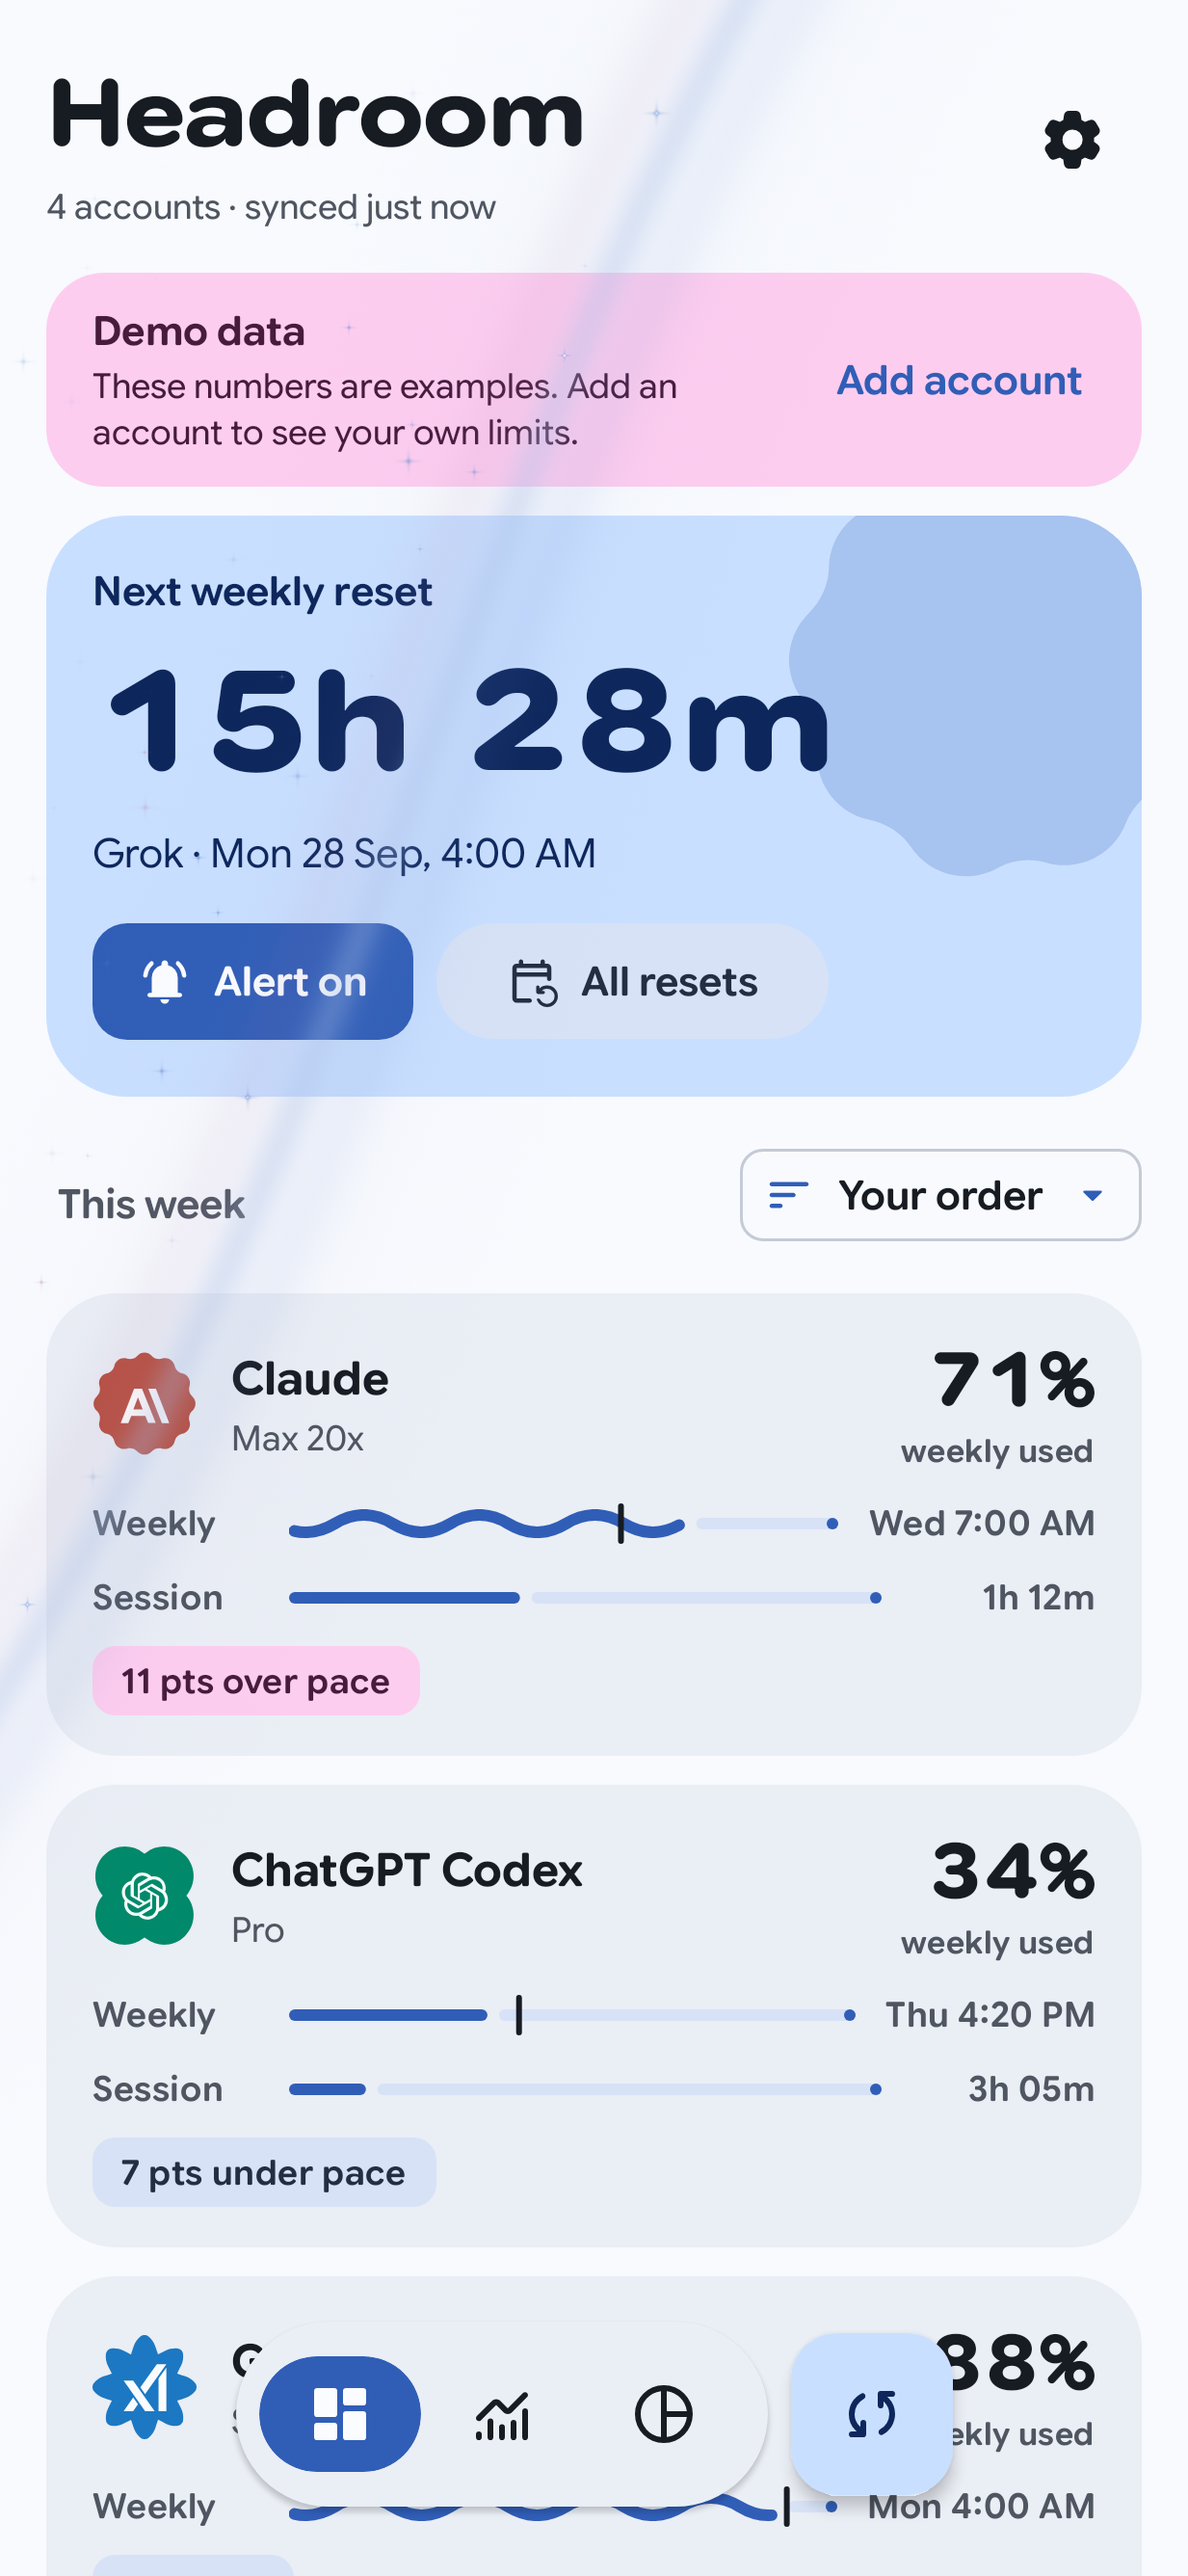
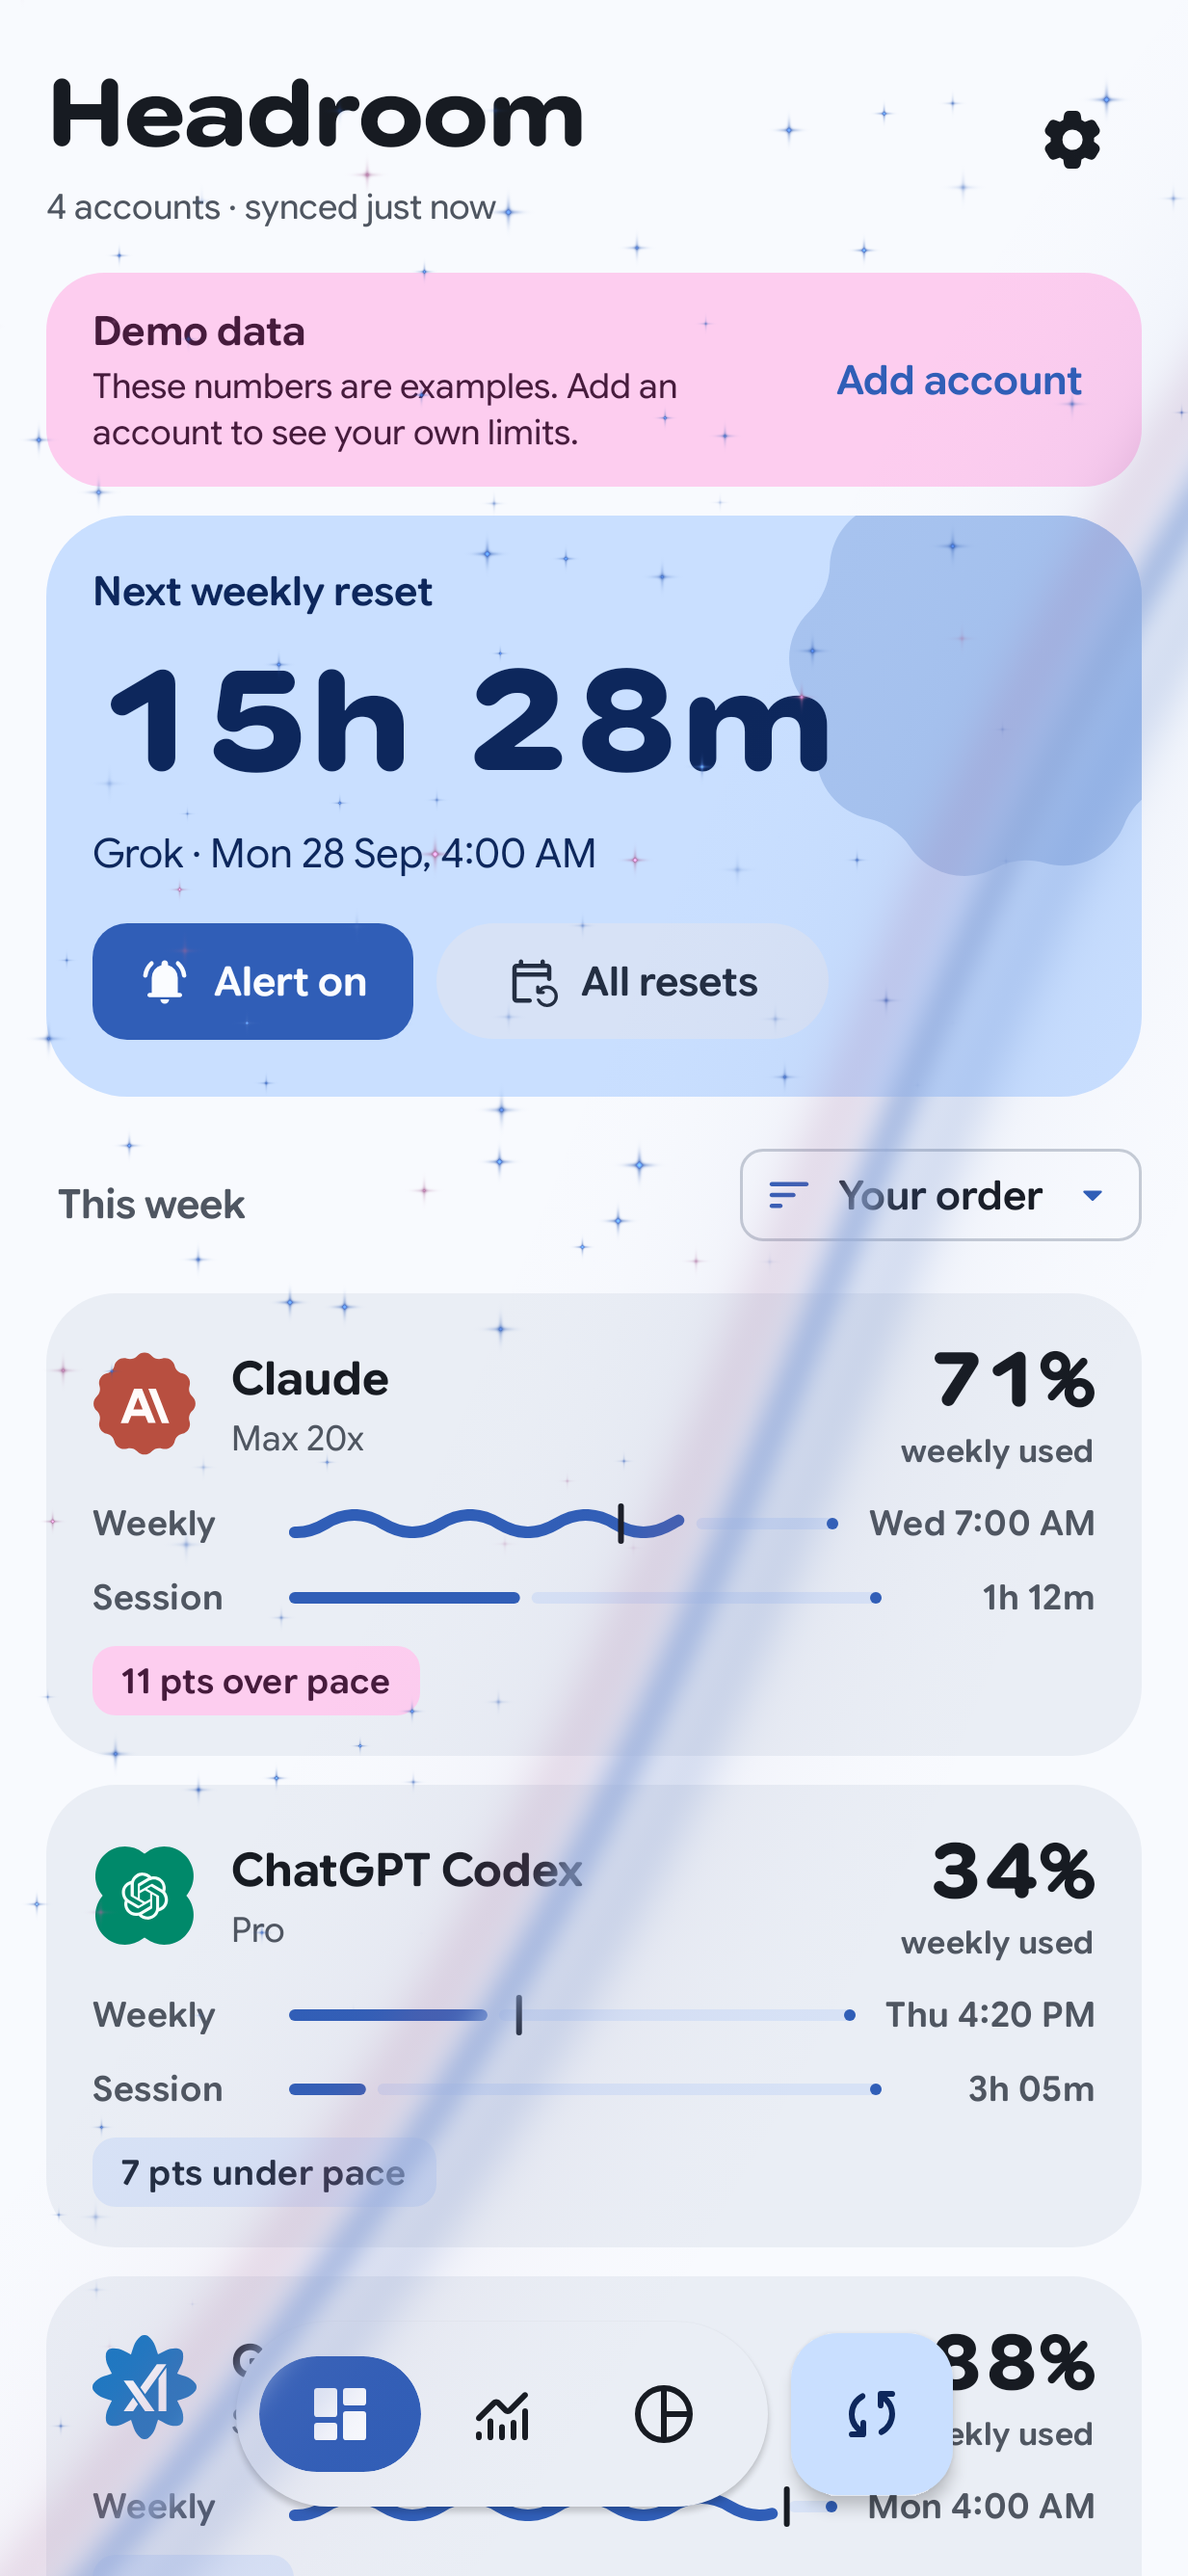
Let the shimmer's stars drift and linger
Each star's life now starts when the front reaches it, not when the
front moves on, and lasts about half a second to a second. The front
pushes each star along, and it slows down as it shrinks and fades. The
whole effect runs 2.4 seconds, and it is a little stronger. On a light
theme the stars are the primary colour, so they show.

diff --git a/app/src/main/kotlin/dev/sebastiano/headroom/ui/delights/RefreshShimmer.kt b/app/src/main/kotlin/dev/sebastiano/headroom/ui/delights/RefreshShimmer.kt
@@ -16,12 +16,12 @@ import androidx.compose.ui.graphics.toArgb
 /**
  * The refresh shimmer: a sheen of light sweeps across the screen and leaves a trail of sparkles.
  * - The front eases in and out, bends and wavers a little, and turns slightly as it travels. It
- *   travels during the first 70% of the time.
+ *   travels during the first half of the time.
  * - The front is a thin, faint core in the `shine` colour, with a whisper of `tint` ahead of it, of
  *   `accent` behind it, and a soft glow. Every colour is washed toward white, so it only hints.
  * - Some cells of a jittered grid hold a four-pointed star. A star lights up when the front reaches
- *   it, then twinkles and fades as the front moves on. For the last 30% of the time only the trail
- *   is left, fading out.
+ *   it, drifts on the push the front gave it, slowing down, and twinkles as it shrinks and fades.
+ *   After the front has gone, the last stars linger.
  *
  * Uniforms: `size` in pixels, `progress` from 0 to 1, `strength` the highest opacity, `density` in
  * pixels per dp, `whiten` how far the colours are washed toward white, and the colours `shine` (the
@@ -55,6 +55,12 @@ float ease(float t) {
     return 1.0 - u * u * u * 0.5;
 }
 
+// The inverse of ease(): the time at which the eased value reaches y, for y from 0 to 1.
+float easeInverse(float y) {
+    if (y < 0.5) return pow(y * 0.25, 1.0 / 3.0);
+    return 1.0 - pow(2.0 - 2.0 * y, 1.0 / 3.0) * 0.5;
+}
+
 // A four-pointed star of radius r: a small round core with two thin crossed rays.
 float star(float2 p, float r) {
     float2 q = abs(p) / r;
@@ -69,8 +75,10 @@ float bent(float2 p, float2 sweep, float2 normal, float reach) {
 }
 
 half4 main(float2 coord) {
-    float travel = ease(clamp(progress / 0.7, 0.0, 1.0));
-    float fade = smoothstep(0.0, 0.06, progress) * (1.0 - smoothstep(0.7, 1.0, progress));
+    // The front travels for the first half of the time; the stars it leaves linger after it.
+    const float TRAVEL = 0.5;
+    float travel = ease(clamp(progress / TRAVEL, 0.0, 1.0));
+    float fade = smoothstep(0.0, 0.04, progress) * (1.0 - smoothstep(0.8, 1.0, progress));
 
     // The sweep turns a little as it travels.
     float angle = mix(0.42, 0.62, travel);
@@ -86,31 +94,43 @@ half4 main(float2 coord) {
     // would not show.
     float3 softTint = mix(float3(tint.rgb), float3(1.0), whiten);
     float3 softAccent = mix(float3(accent.rgb), float3(1.0), whiten);
-    float core = bell(d / 0.009) * 0.55;
-    float ahead = bell((d - 0.022) / 0.014) * 0.12;
-    float behind = bell((d + 0.022) / 0.014) * 0.12;
-    float glow = bell(d / 0.07) * 0.05;
+    float core = bell(d / 0.01) * 0.75;
+    float ahead = bell((d - 0.024) / 0.015) * 0.18;
+    float behind = bell((d + 0.024) / 0.015) * 0.18;
+    float glow = bell(d / 0.07) * 0.07;
     float3 glowColour = mix(softTint, softAccent, across);
     float3 rgb = float3(shine.rgb) * core + softTint * ahead + softAccent * behind
         + glowColour * glow;
     float weight = core + ahead + behind + glow;
 
-    float cellSize = 22.0 * density;
+    // Each star is born when the front reaches it. The birth time is worked out along the sweep at
+    // its middle angle, which is close enough for a sparkle.
+    float2 midSweep = float2(cos(0.52), sin(0.52));
+    float midReach = abs(size.x * midSweep.x) + abs(size.y * midSweep.y);
+    float cellSize = 26.0 * density;
     float2 base = floor(coord / cellSize);
     for (int i = -1; i <= 1; i++) {
         for (int j = -1; j <= 1; j++) {
             float2 cell = base + float2(float(i), float(j));
             float h = hash(cell);
             float2 jitter = float2(hash(cell + 1.7), hash(cell + 4.1)) - 0.5;
-            float2 centre = (cell + 0.5 + jitter * 0.8) * cellSize;
-            float passed = front - bent(centre, sweep, normal, reach);
-            if (h > 0.76 && passed > -0.005) {
-                float life = exp(-max(passed, 0.0) / (0.05 + 0.13 * hash(cell + 9.3)));
+            float2 home = (cell + 0.5 + jitter * 0.6) * cellSize;
+            float reached = clamp((dot(home, midSweep) / midReach + 0.25) / 1.5, 0.0, 1.0);
+            float age = progress - TRAVEL * easeInverse(reached);
+            if (h > 0.72 && age > 0.0) {
+                // The front pushes the star along, and it slows down as it fades.
+                float spread = (hash(cell + 3.3) - 0.5) * 1.4;
+                float2 heading = float2(cos(0.52 + spread), sin(0.52 + spread));
+                float drift = (0.25 + 0.3 * hash(cell + 6.1)) * cellSize;
+                float2 position = home + heading * drift * (1.0 - exp(-age * 9.0));
+                // About half a second to a second of life, time being 2.4 s in all.
+                float life = exp(-age / (0.1 + 0.1 * hash(cell + 9.3)))
+                    * smoothstep(0.0, 0.012, age);
                 float twinkle =
-                    0.55 + 0.45 * sin(progress * (30.0 + 25.0 * hash(cell + 2.9)) + h * 40.0);
-                float radius = (1.4 + 2.4 * hash(cell + 7.7)) * density;
-                float lit = star(coord - centre, radius) * life * twinkle * 0.8;
-                // Most stars shine in the shine colour; some take the tint or the accent.
+                    0.6 + 0.4 * sin(progress * (40.0 + 30.0 * hash(cell + 2.9)) + h * 40.0);
+                float radius = (1.8 + 2.6 * hash(cell + 7.7)) * density * (0.6 + 0.4 * life);
+                float lit = star(coord - position, radius) * life * twinkle;
+                // Most stars shine in the sparkle colour; some take the tint or the accent.
                 float pick = hash(cell + 5.3);
                 float3 colour = pick < 0.7 ? float3(sparkle.rgb) : (pick < 0.85 ? softTint : softAccent);
                 rgb += colour * lit;
@@ -156,11 +176,11 @@ internal fun RefreshShimmer(progress: () -> Float, modifier: Modifier = Modifier
 
 private const val DARK_SURFACE_LUMINANCE = 0.5f
 /** The highest opacity, reached only in the thin core and the stars: bright, but brief. */
-private const val LIGHT_STRENGTH = 0.55f
-private const val DARK_STRENGTH = 0.5f
+private const val LIGHT_STRENGTH = 0.8f
+private const val DARK_STRENGTH = 0.7f
 /** On a light theme the shine is the primary colour, lightened this much toward white. */
-private const val LIGHT_SHINE_WHITENESS = 0.6f
-private const val LIGHT_SPARKLE_WHITENESS = 0.25f
+private const val LIGHT_SHINE_WHITENESS = 0.5f
+private const val LIGHT_SPARKLE_WHITENESS = 0f
 /** How far the tint and the accent are washed toward white. */
 private const val DARK_WHITEN = 0.65f
-private const val LIGHT_WHITEN = 0.2f
+private const val LIGHT_WHITEN = 0.1f

diff --git a/app/src/test/kotlin/dev/sebastiano/headroom/ui/ScreenshotTest.kt b/app/src/test/kotlin/dev/sebastiano/headroom/ui/ScreenshotTest.kt
@@ -537,7 +537,7 @@ private const val FRAME_MILLIS = 16L
 /** Part-way through the reveal into Settings, while the circle is still growing. */
 private const val REVEAL_MIDWAY_MILLIS = 64L
 /** Part-way through the shimmer, while its band crosses the middle of the screen. */
-private const val SHIMMER_MIDWAY_MILLIS = 560L
+private const val SHIMMER_MIDWAY_MILLIS = 640L
 /** Part-way through a confetti burst, while the pieces are high and spread out. */
 private const val CONFETTI_MIDWAY_MILLIS = 400L
 /** A quarter of the way through the next reset card's ripple, while its rings are strong. */

diff --git a/app/src/test/kotlin/dev/sebastiano/headroom/ui/DelightsTest.kt b/app/src/test/kotlin/dev/sebastiano/headroom/ui/DelightsTest.kt
@@ -169,7 +169,7 @@ class DelightsTest {
     private companion object {
         const val ANCHOR = "card"
         val COLOURS = listOf(Color.Red, Color.Blue)
-        const val SHIMMER_DONE_MILLIS = 1_900L
+        const val SHIMMER_DONE_MILLIS = 2_600L
         const val CONFETTI_DONE_MILLIS = 2_300L
     }
 }

diff --git a/app/src/main/kotlin/dev/sebastiano/headroom/ui/delights/Delights.kt b/app/src/main/kotlin/dev/sebastiano/headroom/ui/delights/Delights.kt
@@ -155,7 +155,7 @@ class Delights internal constructor(private val scope: CoroutineScope) {
     }
 
     private companion object {
-        const val SHIMMER_MILLIS = 1_700
+        const val SHIMMER_MILLIS = 2_400
     }
 }
 
